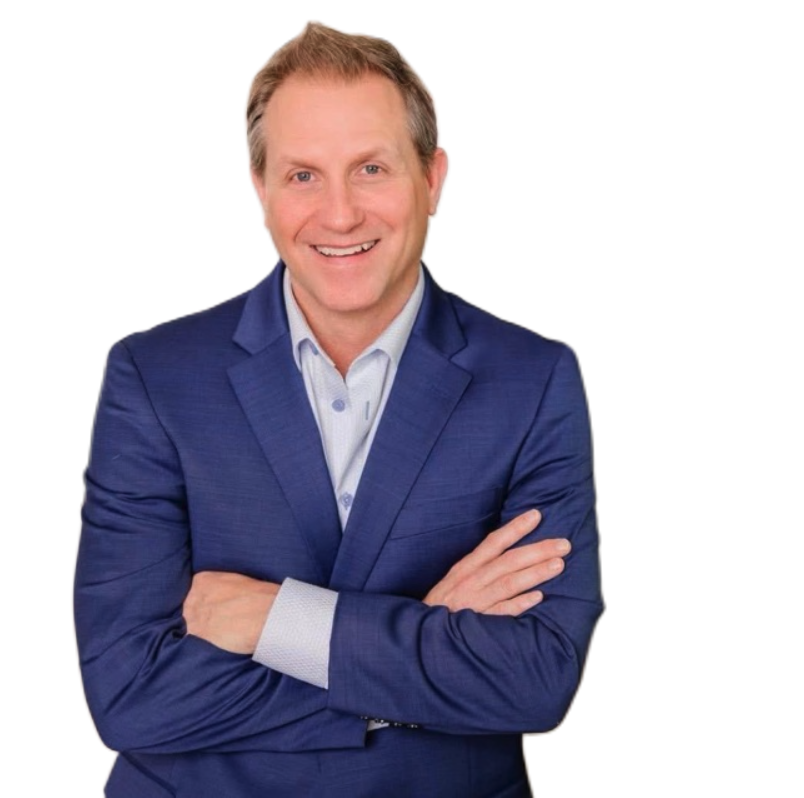
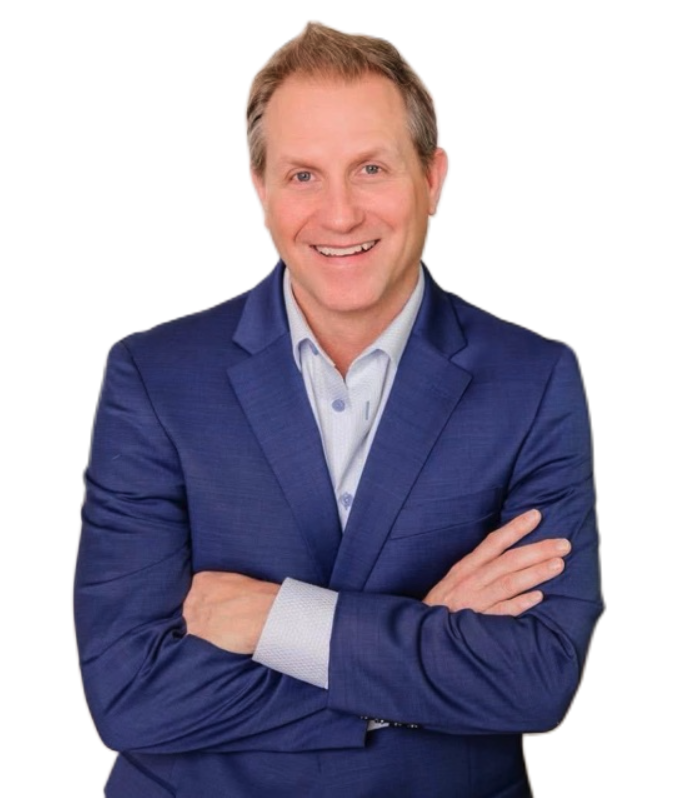
fix: center Warren's portrait crop on his actual figure, not the canvas

diff --git a/app/page.tsx b/app/page.tsx
@@ -66,8 +66,8 @@ export default function HomePage() {
             <Image
               src="/warren-hall-portrait-cutout.png"
               alt="Warren Hall, Compass REALTOR and Senior Broker, recognized among the 2026 Triangle Real Producers Top 100."
-              width={804}
-              height={1072}
+              width={678}
+              height={798}
               priority
               unoptimized
               sizes="(max-width: 48rem) calc(100vw - 2.5rem), (max-width: 68rem) 34vw, 24vw"
